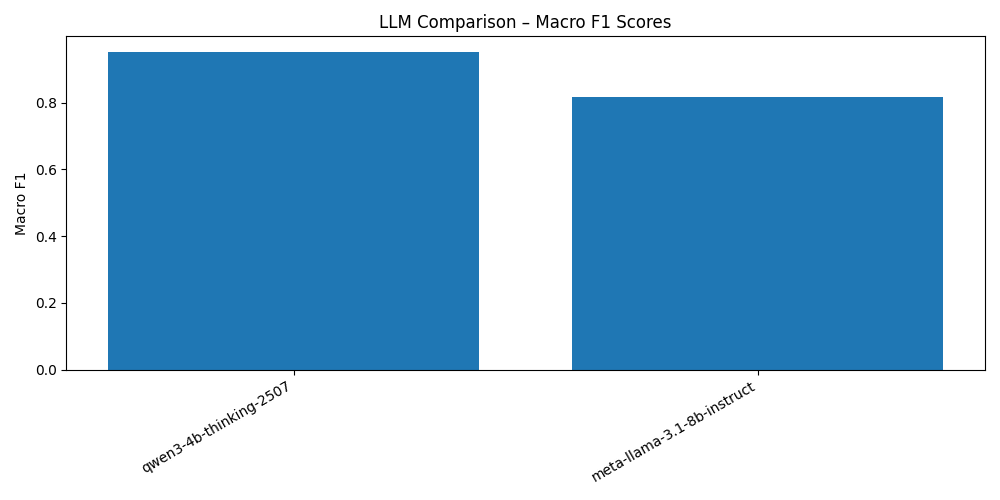
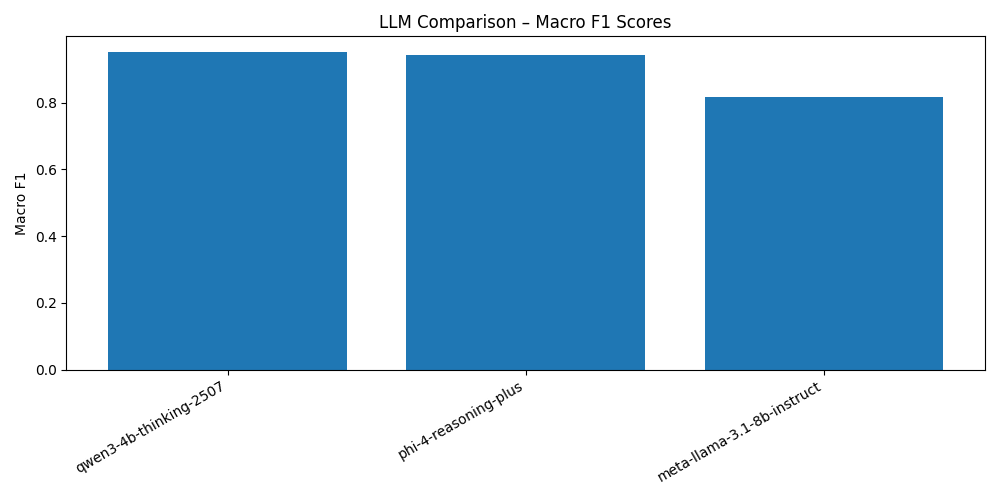
Update results/comparisons folder:
- Added phi-4-reasoning-plus classification report, summary and confusion matrix
- Updated llm leaderboards
- Update model comparison summaries and runtime-memory tradeoff

diff --git a/results/comparisons/llm/leaderboard.md b/results/comparisons/llm/leaderboard.md
@@ -1,6 +1,11 @@
 # LLM Toxicity Classification Leaderboard
 
+The table below summarizes the evaluation of local and prompt-based LLM models on the combined forum comment dataset. Models are ranked primarily by **Macro F1**, reflecting balanced performance across all classes. Accuracy is also provided for reference.
+
+This leaderboard highlights the comparative strengths of advanced reasoning models in identifying nuanced comment toxicity, with Qwen3-4b and Phi-4 demonstrating top performance.
+
 | Rank | Model | Accuracy | Macro F1 |
 |------|--------|-----------|-----------|
 | 1 | qwen3-4b-thinking-2507 | 0.9565 | 0.9512 |
-| 2 | meta-llama-3.1-8b-instruct | 0.7826 | 0.8179 |
+| 2 | phi-4-reasoning-plus | 0.9739 | 0.9429 |
+| 3 | meta-llama-3.1-8b-instruct | 0.7826 | 0.8179 |
